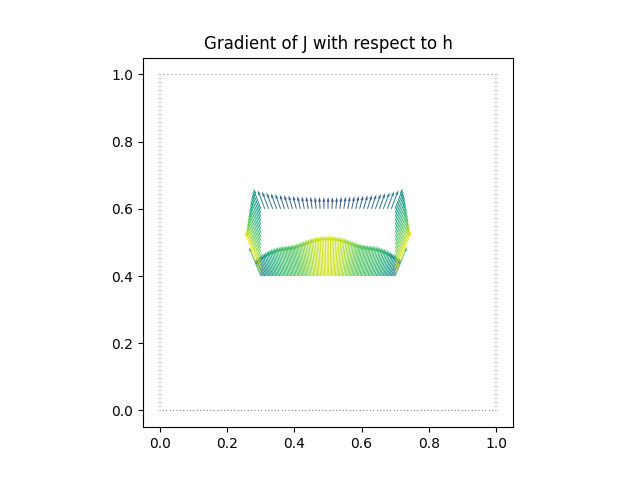
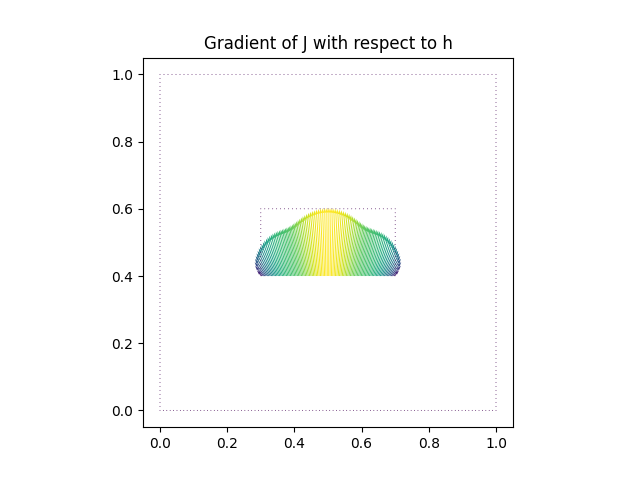
only optimize the bottom side. experimental code.

Changed region(s): [[0.375, 0.4062, 0.6562, 0.5938]]

diff --git a/HH_shape_opt/helmholtz_solve.py b/HH_shape_opt/helmholtz_solve.py
@@ -36,7 +36,7 @@ class HelmholtzSetup:
         self.u_inc_re = IncidentReal(degree=5)
         self.u_inc_im = IncidentImag(degree=5)
 
-def mesh_deformation(h_vol, mesh, markers, obstacle_marker, side_wall_marker, bottom_wall_marker, obstacle_stiffness):
+def mesh_deformation(h_vol, mesh, markers, obstacle_marker, side_wall_marker, bottom_wall_marker, obstacle_opt_marker, obstacle_stiffness):
     # Create scalar function space for material properties
     V = FunctionSpace(mesh, "CG", 1)
     u, v = TrialFunction(V), TestFunction(V)
@@ -44,11 +44,20 @@ def mesh_deformation(h_vol, mesh, markers, obstacle_marker, side_wall_marker, bo
     L0 = Constant(0.0) * v * dx
     
     # Set material properties via boundary conditions
-    bcs0 = [
-        DirichletBC(V, Constant(1.0), markers, side_wall_marker),
-        DirichletBC(V, Constant(1.0), markers, bottom_wall_marker),
-        DirichletBC(V, Constant(obstacle_stiffness), markers, obstacle_marker),
-    ]
+    if obstacle_opt_marker:
+        bcs0 = [
+            DirichletBC(V, Constant(1.0), markers, side_wall_marker),
+            DirichletBC(V, Constant(1.0), markers, bottom_wall_marker),
+            DirichletBC(V, Constant(1.0), markers, obstacle_marker),
+            DirichletBC(V, Constant(obstacle_stiffness), markers, obstacle_opt_marker),
+        ]
+
+    else:
+        bcs0 = [
+            DirichletBC(V, Constant(1.0), markers, side_wall_marker),
+            DirichletBC(V, Constant(1.0), markers, bottom_wall_marker),
+            DirichletBC(V, Constant(obstacle_stiffness), markers, obstacle_marker),
+        ]
     
     # Solve for material distribution
     mu = Function(V, name="mu")
@@ -59,11 +68,18 @@ def mesh_deformation(h_vol, mesh, markers, obstacle_marker, side_wall_marker, bo
     u_vec, v_vec = TrialFunction(S), TestFunction(S)
     
     # Define measure for obstacle boundary
-    dObs = Measure("ds",
-        domain=mesh,
-        subdomain_data=markers,
-        subdomain_id=obstacle_marker
-    )
+    if obstacle_opt_marker:
+        dObs = Measure("ds",
+            domain=mesh,
+            subdomain_data=markers,
+            subdomain_id=obstacle_opt_marker
+        )
+    else:
+        dObs = Measure("ds",
+            domain=mesh,
+            subdomain_data=markers,
+            subdomain_id=obstacle_marker
+        )
 
     # Define strain and stress tensors
     def ε(w): return sym(grad(w))
@@ -78,6 +94,9 @@ def mesh_deformation(h_vol, mesh, markers, obstacle_marker, side_wall_marker, bo
         DirichletBC(S, Constant((0.0, 0.0)), markers, bottom_wall_marker),
         DirichletBC(S, Constant((0.0, 0.0)), markers, side_wall_marker)
     ]
+
+    if obstacle_opt_marker:
+        bc_el.append(DirichletBC(S, Constant((0.0, 0.0)), markers, obstacle_marker))
     
     # Solve for displacement field
     s = Function(S, name="deformation")
@@ -135,12 +154,12 @@ def load_forward_simulation_data_bottomwall(V_DG0, forward_sim_result_file_path,
     df = pd.read_csv(forward_sim_result_file_path)
 
 def helmholtz_solve(mesh_copy, markers_copy, h_control, hh_setup, 
-                   obstacle_marker, side_wall_marker, bottom_wall_marker):
+                   obstacle_marker, side_wall_marker, bottom_wall_marker, obstacle_opt_marker = None):
 
     # Perform mesh deformation
     h_vol = transfer_from_boundary(h_control, mesh_copy)
     s = mesh_deformation(h_vol, mesh_copy, markers_copy, 
-                        obstacle_marker, side_wall_marker, bottom_wall_marker, 
+                        obstacle_marker, side_wall_marker, bottom_wall_marker, obstacle_opt_marker,
                         obstacle_stiffness=hh_setup.obstacle_stiffness)
     ALE.move(mesh_copy, s)
 
@@ -152,7 +171,11 @@ def helmholtz_solve(mesh_copy, markers_copy, h_control, hh_setup,
     # Define boundary measures
     ds_bottom = Measure("ds", domain=mesh_copy, subdomain_data=markers_copy, subdomain_id=bottom_wall_marker)
     ds_sides = Measure("ds", domain=mesh_copy, subdomain_data=markers_copy, subdomain_id=side_wall_marker)
-    ds_obstacle = Measure("ds", domain=mesh_copy, subdomain_data=markers_copy, subdomain_id=obstacle_marker)
+    if obstacle_opt_marker:
+        ds_obstacle = (Measure("ds", domain=mesh_copy, subdomain_data=markers_copy, subdomain_id=obstacle_marker) +
+                        Measure("ds", domain=mesh_copy, subdomain_data=markers_copy, subdomain_id=obstacle_opt_marker))
+    else:
+        ds_obstacle = Measure("ds", domain=mesh_copy, subdomain_data=markers_copy, subdomain_id=obstacle_marker)
     ds_outer = ds_bottom + ds_sides
 
     # Create mixed function space for complex-valued problem
@@ -177,6 +200,10 @@ def helmholtz_solve(mesh_copy, markers_copy, h_control, hh_setup,
         DirichletBC(W.sub(0), uinc_re_neg, markers_copy, obstacle_marker),
         DirichletBC(W.sub(1), uinc_im_neg, markers_copy, obstacle_marker),
     ]
+
+    if obstacle_opt_marker:
+        bcs.append(DirichletBC(W.sub(0), uinc_re_neg, markers_copy, obstacle_opt_marker))
+        bcs.append(DirichletBC(W.sub(1), uinc_im_neg, markers_copy, obstacle_opt_marker))
 
     # Solve the system
     w = Function(W)

diff --git a/opt_obstacle_one_planewave/mesh_generation.py b/opt_obstacle_one_planewave/mesh_generation.py
@@ -6,7 +6,7 @@ side_wall_marker = 1
 bottom_wall_marker = 2
 obstacle_marker = 3
 domain_marker = 4
-
+obstacle_opt_marker = 5
 
 def plot_mesh(filename, ax, title=""):
     mesh = meshio.read(filename)
@@ -146,17 +146,20 @@ def generate_square_with_rect_obstacle_mesh(
     rp4 = gmsh.model.geo.addPoint(rx1, ry2, 0, mesh_size)
 
     # Rectangle obstacle lines
-    rl1 = gmsh.model.geo.addLine(rp1, rp2)
-    rl2 = gmsh.model.geo.addLine(rp2, rp3)
-    rl3 = gmsh.model.geo.addLine(rp3, rp4)
-    rl4 = gmsh.model.geo.addLine(rp4, rp1)
-    rect_lines = [rl1, rl2, rl3, rl4]
-
+    rl1 = gmsh.model.geo.addLine(rp1, rp2)  # Bottom edge (to be optimized)
+    rl2 = gmsh.model.geo.addLine(rp2, rp3)  # Right edge
+    rl3 = gmsh.model.geo.addLine(rp3, rp4)  # Top edge
+    rl4 = gmsh.model.geo.addLine(rp4, rp1)  # Left edge
+    
+    # Separate bottom edge from other edges
+    rect_bottom_line = [rl1]
+    rect_other_lines = [rl2, rl3, rl4]
+    
     gmsh.model.geo.mesh.setTransfiniteCurve(rl1, n_points_rect_bottom)
 
     # Curve loops
     outer_loop = gmsh.model.geo.addCurveLoop([l1, l2, l3, l4])
-    rect_loop = gmsh.model.geo.addCurveLoop(rect_lines)
+    rect_loop = gmsh.model.geo.addCurveLoop([rl1, rl2, rl3, rl4])
 
     # Plane surface with rectangle obstacle
     surface = gmsh.model.geo.addPlaneSurface([outer_loop, rect_loop])
@@ -166,7 +169,8 @@ def generate_square_with_rect_obstacle_mesh(
     # Physical groups
     gmsh.model.addPhysicalGroup(1, [l1], bottom_wall_marker, "bottom_wall")
     gmsh.model.addPhysicalGroup(1, [l2, l3, l4], side_wall_marker, "outer_walls")
-    gmsh.model.addPhysicalGroup(1, rect_lines, obstacle_marker, "rect_obstacle_boundary")
+    gmsh.model.addPhysicalGroup(1, rect_other_lines, obstacle_marker, "rect_obstacle_boundary")
+    gmsh.model.addPhysicalGroup(1, rect_bottom_line, obstacle_opt_marker, "rect_obstacle_bottom")
     gmsh.model.addPhysicalGroup(2, [surface], domain_marker, "domain")
 
     # Generate mesh
@@ -530,12 +534,17 @@ if __name__ == "__main__":
     """
 
     
-    mesh_file_name = generate_square_with_cos_perturbed_rect_obstacle_mesh(mesh_size=mesh_size,
-        output_name="meshes/square_with_cos_exp_perturbed_rect",
-        n_points_bottom=100, n_points_rect_bottom=100,
-        perturb_amplitude=0.02, perturb_frequency=1
+    mesh_file = generate_square_with_rect_obstacle_mesh(
+        width=1.0,
+        height=1.0,
+        rect_w=0.4,
+        rect_h=0.2,
+        mesh_size=mesh_size,
+        output_name="meshes/square_with_rect_obstacle",
+        n_points_bottom=100,
+        n_points_rect_bottom = 100
     )
-
+    
     fig, ax = plt.subplots(figsize=(6, 6))
     plot_mesh(mesh_file_name, ax, title="Square with symmetric gaussian perturbations")
     plt.show()

diff --git a/opt_obstacle_one_planewave/opt_script.py b/opt_obstacle_one_planewave/opt_script.py
@@ -12,7 +12,7 @@ import sys
 import gmsh
 import matplotlib.pyplot as plt
 
-from mesh_generation import obstacle_marker, side_wall_marker, bottom_wall_marker
+from mesh_generation import obstacle_marker, side_wall_marker, bottom_wall_marker, obstacle_opt_marker
 
 sys.path.insert(0, os.path.abspath(os.path.join(os.path.dirname(__file__), '..')))
 from HH_shape_opt.helmholtz_solve import HelmholtzSetup, plane_wave, helmholtz_solve, preprocess_reference_data, assign_reference_data
@@ -44,16 +44,16 @@ reference_data_map = preprocess_reference_data(V_DG0_initial, forward_sim_result
 
 # Solve the forward problem
 u_tot_mag_dg0, ds_bottom, V_DG0 = helmholtz_solve(mesh, markers, h, hh_setup,
-                                                             obstacle_marker, side_wall_marker, bottom_wall_marker)
+                                                  obstacle_marker, side_wall_marker, bottom_wall_marker, obstacle_opt_marker)
 # Load reference data
 u_ref_dg0 = assign_reference_data(V_DG0, reference_data_map)
 
 J = assemble((inner(u_tot_mag_dg0 - u_ref_dg0, u_tot_mag_dg0 - u_ref_dg0)* ds_bottom))
 
 Jhat = ReducedFunctional(J, Control(h))
-#dJdh = Jhat.derivative()
-#plot(dJdh, title=f"Gradient of J with respect to h for symmetric exponential perturbation")
-#savefig("outputs/gradient_sy,.png")
+dJdh = Jhat.derivative()
+plot(dJdh, title=f"Gradient of J with respect to h")
+savefig("outputs/gradient_cos_1.png")
 
 problem = MoolaOptimizationProblem(Jhat)
 h_moola = moola.DolfinPrimalVector(h)

diff --git a/opt_obstacle_one_planewave/forward_sim_datagen.py b/opt_obstacle_one_planewave/forward_sim_datagen.py
@@ -9,13 +9,11 @@ import gmsh
 import matplotlib.pyplot as plt
 
 from mesh_generation import obstacle_marker, side_wall_marker, bottom_wall_marker
-
 sys.path.insert(0, os.path.abspath(os.path.join(os.path.dirname(__file__), '..')))
 from HH_shape_opt.helmholtz_solve import HelmholtzSetup, plane_wave, helmholtz_solve
 from HH_shape_opt.initialize_opt import initialize_opt_xml, initialize_opt_xdmf
 
 msh_file_path = "meshes/square_with_cos_exp_perturbed_rect.msh"
-
 frequency = 5e9
 incident_field_func = plane_wave
 hh_setup = HelmholtzSetup(frequency, incident_field_func)
